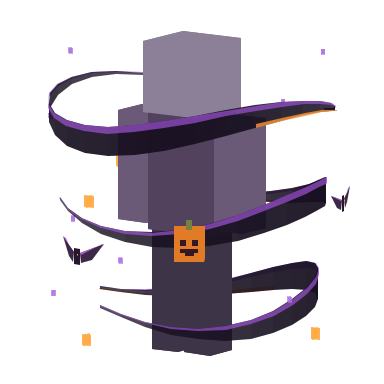
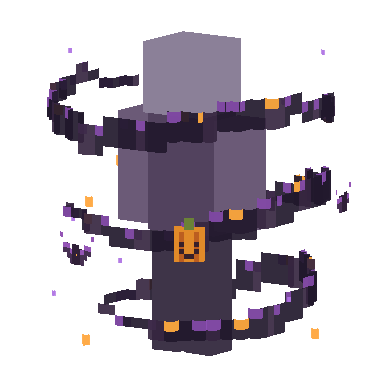
Give Hexwind aura a blocky Minecraft pixel style

diff --git a/src/main/java/com/axial/cosmetics/client/HexwindGeometry.java b/src/main/java/com/axial/cosmetics/client/HexwindGeometry.java
@@ -13,20 +13,22 @@ public final class HexwindGeometry {
     private static Point orbit(double angle,double radius,double height){return point(Math.cos(angle)*radius,height,Math.sin(angle)*radius);}
     public static List<Quad> frame(float ticks,boolean detailed) {
         double phase=Math.floorMod((long)Math.floor(ticks*1000),120000)/120000.0*Math.PI*2;
-        var mesh=new ArrayList<Quad>();int segments=detailed?22:12;
+        var mesh=new ArrayList<Quad>();int segments=detailed?40:20;
         for(int band=0;band<3;band++) {
             double start=phase*(band==1?-1:1)+band*2.15;
             double radius=.78+band*.055,base=.32+band*.59;
+            // A one-texel grid gives the smoke a stepped silhouette, even at close range.
+            // Split diagonal movement into axis-aligned treads instead of smooth ribbon panels.
             for(int segment=0;segment<segments;segment++) {
                 double t=segment/(double)segments,next=(segment+1.0)/segments;
                 double a=start+t*Math.PI*1.52,b=start+next*Math.PI*1.52;
-                double h1=base+Math.sin(a*2+band)*.095,h2=base+Math.sin(b*2+band)*.095;
-                double width1=.018+.17*Math.sin(t*Math.PI)*Math.sin(t*Math.PI),width2=.018+.17*Math.sin(next*Math.PI)*Math.sin(next*Math.PI);
-                int alpha=(int)(190+50*Math.sin(t*Math.PI));
-                mesh.add(new Quad(orbit(a,radius,h1-width1/2),orbit(b,radius,h2-width2/2),orbit(b,radius,h2+width2/2),orbit(a,radius,h1+width1/2),(alpha<<24)|0x171020));
-                // Raised strips follow the smoke's edge, not a full solid neon ring.
-                mesh.add(new Quad(orbit(a,radius+.006,h1+width1*.27),orbit(b,radius+.006,h2+width2*.27),orbit(b,radius+.006,h2+width2*.5),orbit(a,radius+.006,h1+width1*.5),0xB09F52D7));
-                if(segment>segments*2/3)mesh.add(new Quad(orbit(a,radius+.01,h1-width1*.5),orbit(b,radius+.01,h2-width2*.5),orbit(b,radius+.01,h2-width2*.32),orbit(a,radius+.01,h1-width1*.32),0xD0F99235));
+                double x1=snap(Math.cos(a)*radius),z1=snap(Math.sin(a)*radius);
+                double x2=snap(Math.cos(b)*radius),z2=snap(Math.sin(b)*radius);
+                double bottom=snap(base+Math.sin(a*2+band)*.095)-PIXEL;
+                int rows=1+(int)Math.round(2*Math.sin(t*Math.PI));
+                int color=segment%4==0?0xE936253F:0xEA21182C;
+                tread(mesh,x1,z1,x2,z1,bottom,rows,color,segment,band);
+                tread(mesh,x2,z1,x2,z2,bottom,rows,color,segment,band);
             }
         }
         for(int bat=0;bat<3;bat++) {
@@ -39,21 +41,38 @@ public final class HexwindGeometry {
         for(int i=0;i<motes;i++) {
             double angle=phase*(i%2==0?1:-1)+i*2.39996;
             double height=.14+(i%6)*.31+Math.sin(phase*2+i)*.06;
-            Point center=orbit(angle,.9+(i%3)*.045,height);double size=i%3==0?.035:.018;
+            Point center=orbit(angle,.9+(i%3)*.045,height);double size=i%3==0?PIXEL/2:PIXEL/4;
             square(mesh,center,size,i%3==0?0xEFFFAB48:0xBDAE72E2);
         }
         return List.copyOf(mesh);
     }
-    private static void pumpkin(List<Quad> mesh,double angle,double radius,double y) {
-        Point center=orbit(angle,radius,y);double axis=angle+Math.PI/2,r=.095;
-        cube(mesh,center,axis,r,r,r,0xFFE17B25);
-        cube(mesh,local(center,axis,0,r+.024,0),axis,.018,.025,.018,0xFF77813F);
-        for(int side:new int[]{-1,1}) {
-            Point eye=local(center,axis,side*.037,.025,-r-.002);
-            face(mesh,eye,axis,.018,.018,0xFF351822);
+    private static final double PIXEL=1.0/16;
+    private static double snap(double value){return Math.rint(value/PIXEL)*PIXEL;}
+    private static void tread(List<Quad> mesh,double x1,double z1,double x2,double z2,double y,int rows,int color,int segment,int band) {
+        if(x1==x2&&z1==z2)return;
+        mesh.add(new Quad(point(x1,y,z1),point(x2,y,z2),point(x2,y+rows*PIXEL,z2),point(x1,y+rows*PIXEL,z1),color));
+        // Whole square texels of colour, rather than thin, smooth neon outlines.
+        if(segment%3!=0) {
+            double dx=x2-x1,dz=z2-z1,length=Math.abs(dx)+Math.abs(dz);
+            double ex=x1+dx/length*Math.min(PIXEL,length),ez=z1+dz/length*Math.min(PIXEL,length);
+            int accent=(segment+band)%5==0?0xFFF2A13D:0xD58F50B6;
+            double top=y+rows*PIXEL;
+            // A tiny outward offset prevents coplanar colour pixels from flickering.
+            double ox=z1==z2?0:Math.copySign(.001,x1),oz=x1==x2?0:Math.copySign(.001,z1);
+            mesh.add(new Quad(point(x1+ox,top-PIXEL,z1+oz),point(ex+ox,top-PIXEL,ez+oz),point(ex+ox,top,ez+oz),point(x1+ox,top,z1+oz),accent));
         }
-        face(mesh,local(center,axis,0,-.025,-r-.003),axis,.055,.012,0xFF351822);
-        face(mesh,local(center,axis,0,-.044,-r-.003),axis,.028,.01,0xFF351822);
+    }
+    private static void pumpkin(List<Quad> mesh,double angle,double radius,double y) {
+        Point center=orbit(angle,radius,y);double axis=angle+Math.PI/2,p=PIXEL/2,r=3*p;
+        cube(mesh,center,axis,r,r,r,0xFFE18A29);
+        cube(mesh,local(center,axis,0,r+p,0),axis,p,p,p,0xFF6B8237);
+        // Six-pixel face with blocky ribs, square eyes and a toothy mouth.
+        for(int column:new int[]{-2,1})face(mesh,local(center,axis,(column+.5)*p,0,-r-.001),axis,p/2,r,0xFFBC5E20);
+        for(int side:new int[]{-1,1})face(mesh,local(center,axis,side*1.5*p,.5*p,-r-.003),axis,p/2,p/2,0xFF38202A);
+        for(int column=-2;column<=1;column++) {
+            double row=column==-2||column==1?-1:-2;
+            face(mesh,local(center,axis,(column+.5)*p,row*p,-r-.003),axis,p/2,p/2,0xFF38202A);
+        }
     }
     private static void face(List<Quad> mesh,Point c,double axis,double w,double h,int color) {
         mesh.add(new Quad(local(c,axis,-w,-h,0),local(c,axis,w,-h,0),local(c,axis,w,h,0),local(c,axis,-w,h,0),color));
@@ -70,20 +89,21 @@ public final class HexwindGeometry {
         mesh.add(new Quad(point(c.x,c.y-r,c.z-r),point(c.x,c.y-r,c.z+r),point(c.x,c.y+r,c.z+r),point(c.x,c.y+r,c.z-r),color));
     }
     private static void bat(List<Quad> mesh,double angle,double radius,double y,double flap) {
-        Point center=orbit(angle,radius,y);double tangent=angle+Math.PI/2;
-        double wing=.16+Math.cos(flap)*.035;
-        // Bat wings are angular panels with notched lower edges and a gently changing pitch.
-        Point bodyLow=local(center,tangent,-.025,-.05,0),bodyHigh=local(center,tangent,.025,.05,0);
-        mesh.add(new Quad(bodyLow,local(center,tangent,.025,-.05,0),bodyHigh,local(center,tangent,-.025,.05,0),0xFF25172D));
+        Point center=orbit(angle,radius,y);double tangent=angle+Math.PI/2,p=PIXEL/2;
+        // A pixel sprite silhouette: square ears, tiny body and stepped wings.
+        cube(mesh,center,tangent,p,1.5*p,p/2,0xFF302038);
         for(int side:new int[]{-1,1}) {
-            Point root=local(center,tangent,side*.025,.025,0),tip=local(center,tangent,side*wing,.065+flap*.045,Math.sin(flap)*.09);
-            Point notch=local(center,tangent,side*.105,-.012,Math.sin(flap)*.045),lower=local(center,tangent,side*.04,-.035,0);
-            mesh.add(new Quad(root,tip,notch,lower,0xF535203F));
-            mesh.add(new Quad(root,tip,local(center,tangent,side*(wing-.025),.058+flap*.045,Math.sin(flap)*.09),local(center,tangent,side*.04,.018,0),0xE9AF5FE3));
-        }
-        for(int side:new int[]{-1,1}) {
-            Point eye=local(center,tangent,side*.012,.015,-.004);
-            mesh.add(new Quad(local(eye,tangent,-.006,-.006,0),local(eye,tangent,.006,-.006,0),local(eye,tangent,.006,.006,0),local(eye,tangent,-.006,.006,0),0xFFFFA144));
+            face(mesh,local(center,tangent,side*.5*p,2*p,-p/2),tangent,p/2,p/2,0xFF302038);
+            face(mesh,local(center,tangent,side*.5*p,.5*p,-p/2-.002),tangent,p/4,p/4,0xFFFFAD43);
+            for(int column=0;column<4;column++) {
+                double x=side*(column+1.5)*p;
+                double lift=Math.rint(flap*column)*p;
+                int rows=column<2?3:column==2?2:1;
+                double top=(column<3?1.5:2.5)*p+lift;
+                Point wing=local(center,tangent,x,top-rows*p/2,0);
+                face(mesh,wing,tangent,p/2,rows*p/2,0xFF463052);
+                face(mesh,local(center,tangent,x,top-p/2,-.001),tangent,p/2,p/2,0xFF9455B5);
+            }
         }
     }
     private static Point local(Point center,double angle,double x,double y,double z) {

diff --git a/src/main/java/com/axial/cosmetics/client/AuraFeatureRenderer.java b/src/main/java/com/axial/cosmetics/client/AuraFeatureRenderer.java
@@ -12,7 +12,7 @@ import net.minecraft.client.render.entity.state.PlayerEntityRenderState;
 import net.minecraft.client.util.math.MatrixStack;
 import net.minecraft.util.Identifier;
 
-/** Smooth, depth-tested wind geometry. Rendering only; no particles/entities or server mutations. */
+/** Stepped, pixel-style wind geometry with continuous orbit animation. Rendering only; no particles/entities or server mutations. */
 public final class AuraFeatureRenderer extends FeatureRenderer<PlayerEntityRenderState,PlayerEntityModel> {
     private static final Identifier WHITE=Identifier.of("axial_cosmetics","textures/entity/auras/white.png");
     public AuraFeatureRenderer(FeatureRendererContext<PlayerEntityRenderState,PlayerEntityModel> context){super(context);}

diff --git a/src/test/java/com/axial/cosmetics/client/HexwindAuraTest.java b/src/test/java/com/axial/cosmetics/client/HexwindAuraTest.java
@@ -9,7 +9,7 @@ import static org.junit.jupiter.api.Assertions.*;
 class HexwindAuraTest {
     @Test void geometryIsFiniteBoundedAnimatedAndSeamless() {
         for(float t:new float[]{0,.25f,19,60,119.9f,120,240,-1}) {
-            var mesh=HexwindGeometry.frame(t,true);assertTrue(mesh.size()>150&&mesh.size()<300);
+            var mesh=HexwindGeometry.frame(t,true);assertTrue(mesh.size()>150&&mesh.size()<650);
             for(var quad:mesh)for(var p:List.of(quad.a(),quad.b(),quad.c(),quad.d())) {
                 assertTrue(Float.isFinite(p.x())&&Float.isFinite(p.y())&&Float.isFinite(p.z()));
                 assertTrue(Math.abs(p.x())<1.4&&Math.abs(p.z())<1.4);assertTrue(p.y()>-.1&&p.y()<2.1);

diff --git a/tools/GenerateHexwindPreview.java b/tools/GenerateHexwindPreview.java
@@ -25,7 +25,7 @@ public class GenerateHexwindPreview {
     static double sy(Point p){return p.y()+depth(p)*.17;}
     static BufferedImage image(int size,float ticks) {
         var image=new BufferedImage(size,size,BufferedImage.TYPE_INT_ARGB);var g=image.createGraphics();
-        g.setRenderingHint(RenderingHints.KEY_ANTIALIASING,RenderingHints.VALUE_ANTIALIAS_ON);
+        g.setRenderingHint(RenderingHints.KEY_ANTIALIASING,RenderingHints.VALUE_ANTIALIAS_OFF);
         var mesh=new ArrayList<Quad>();
         // A neutral, block-shaped preview mannequin gives scale without borrowing a player skin.
         box(mesh,-.22f,1.48f,-.22f,.44f,.44f,.44f,0xff8b8098);

diff --git a/backend/cosmetics/HEXWIND.md b/backend/cosmetics/HEXWIND.md
@@ -12,7 +12,7 @@ The authenticated WSS relay synchronizes aura equipment to other updated, visibl
 
 ## Design and rendering
 
-This is an original procedural cosmetic inspired by the broad orbiting ribbons in the supplied Wind Aura reference. No Lunar model, texture or animation files were copied. Three smoky ribbon arcs rotate at different heights, edged with violet and orange; three small angular bats flap around the player, a jack-o'-lantern orbits below the waist, and small ember squares drift nearby. A six-second loop is evaluated continuously from Minecraft's interpolated render age.
+This is an original procedural cosmetic inspired by the broad orbiting ribbons in the supplied Wind Aura reference. No Lunar model, texture or animation files were copied. Three smoky trails rotate at different heights on a 1/16-block grid, with stepped silhouettes and whole violet/orange accent pixels. Three pixel-shaped bats flap around the player, a six-pixel jack-o'-lantern face orbits below the waist, and square embers drift nearby. The geometry uses square edges while the orbit remains continuous. A six-second loop is evaluated continuously from Minecraft's interpolated render age.
 
 `HexwindGeometry.java` is the editable source for the mesh, colours, orbit radii and animation. `AuraFeatureRenderer.java` submits the mesh through Minecraft 1.21.11's entity render command queue, with normal depth testing, no collision or spawned entities, reduced detail past 24 blocks and a 64-block distance cutoff. Invisible/spectator players and Citizens-style NPC UUIDs are excluded. Local first-person hands are not surrounded with an obstructing aura; the local player's aura is visible in third person and the wardrobe's native player preview. Other players' auras are visible normally.
 
